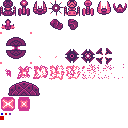
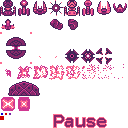
Implement basic pause

Changed region(s): [[0.4062, 0.875, 0.8438, 1.0]]

diff --git a/main.py b/main.py
@@ -14,6 +14,8 @@ from action import ActionStates, handler
 from collision_handler import CollisionHandler
 from hero import reset, save_hero_state
 
+from pause import setup_pause_screen
+
 
 from scene_tools import load_level
 
@@ -111,7 +113,7 @@ def key_back(_, event):
 
 
 @handler.register(pygame.KEYDOWN, "debug")
-def key_back(_, event):
+def key_debug(_, event):
     return event.key == key_map["debug"]
 
 
@@ -144,29 +146,27 @@ def run_level(game_state, screen, level_name):
 
     globs.camera = Vector2(0, 0)
 
-    visible = pygame.sprite.Group()
-    ui = pygame.sprite.Group()
-    ally_bullet = pygame.sprite.Group()
-    enemy_bullet = pygame.sprite.Group()
-    enemy = pygame.sprite.Group()
-    solid = pygame.sprite.Group()
-    mothership = pygame.sprite.Group()
-    hero = pygame.sprite.GroupSingle()
     globs.groups = FlexObj()
-    globs.groups.visible = visible
-    globs.groups.ui = ui
-    globs.groups.ally_bullet = ally_bullet
-    globs.groups.enemy_bullet = enemy_bullet
-    globs.groups.enemy = enemy
-    globs.groups.solid = solid
-    globs.groups.hero = hero
-    globs.groups.mothership = mothership
+    globs.groups.visible = visible = pygame.sprite.Group()
+    globs.groups.ui = ui = pygame.sprite.Group()
+    globs.groups.pause = pause = pygame.sprite.Group()
+
+    globs.groups.ally_bullet = ally_bullet = pygame.sprite.Group()
+    globs.groups.enemy_bullet = enemy_bullet = pygame.sprite.Group()
+    globs.groups.enemy = enemy = pygame.sprite.Group()
+    globs.groups.solid = solid = pygame.sprite.Group()
+    globs.groups.hero = hero = pygame.sprite.GroupSingle()
+    globs.groups.mothership = mothership = pygame.sprite.Group()
 
     globs.spawn_proba = max_spawn_rate
+
+    globs.pause = False
 
     globs.debug = db = Debug()
     load_level(level_name, visible, ally_bullet,
                enemy_bullet, enemy, solid, hero, mothership)
+
+    setup_pause_screen(pause)
 
     ui_master = setup_in_game_ui(ui)
 
@@ -194,7 +194,10 @@ def run_level(game_state, screen, level_name):
         if actions.reload:
             reset()
 
-        if actions.debug:
+        if actions.ui_select:
+            globs.pause = not globs.pause
+
+        if DEBUG and actions.debug:
             globs.life += 1
 
         elif actions.loose:
@@ -210,17 +213,22 @@ def run_level(game_state, screen, level_name):
         for h in collision_handlers:
             h.handle_collisions()
 
-        # update
-        visible.update()
-        globs.spawn_proba = max_spawn_rate / (1 + len(enemy.sprites()))
+        if not globs.pause:
+            # update
+            visible.update()
+            globs.spawn_proba = max_spawn_rate / (1 + len(enemy.sprites()))
 
-        ui_master.update()
+            ui_master.update()
 
         # draw
         screen.fill(BLACK)
 
         visible.draw(screen)
         ui.draw(screen)
+
+        if globs.pause:
+            pause.draw(screen)
+
         globs.debug.debug(f"hero life: {globs.life}")
         globs.debug.debug(f"score: {globs.score}")
 

diff --git a/in_game_ui.py b/in_game_ui.py
@@ -9,12 +9,12 @@ from ui import Ui, Manager, UiMaster
 
 
 def setup_in_game_ui(group):
-    x = W - Z * (4 * 16 + 8)
-    y = Z * 8
+    mm_x = W - Z * (4 * 16 + 8)
+    mm_y = H - Z * (4 * 16 + 8)
 
     managers = [
-        init_minimap(x, y, group),
-        init_life_bar(x, y + 4 * 16 * Z, group),
+        init_minimap(mm_x, mm_y, group),
+        init_life_bar(mm_x, mm_y - Z * 16, group),
     ]
 
     return UiMaster([m for m in managers if m is not None], group)
@@ -112,7 +112,8 @@ class Life(Ui):
         size = self.image.get_size()
         self.i = i
         self.n = n
-        super().__init__(0, y, *size, *args, **kwargs)
+        super().__init__(0, 0, *size, *args, **kwargs)
+        self.rect.centery = y
         self.on_update_pos(None, n)
 
     def on_die(self, _):

diff --git a/pause.py b/pause.py
@@ -1,0 +1,18 @@
+from constants import W, H
+from assets import get_sprite
+
+from ui import Ui
+
+
+def setup_pause_screen(group):
+    PauseScreen(W / 2, H / 2, group)
+
+
+class PauseScreen(Ui):
+    def __init__(self, x, y, *args, **kwargs):
+
+        self.image = get_sprite("ui_pause")
+        size = self.image.get_size()
+
+        super().__init__(0, 0, *size, *args, **kwargs)
+        self.rect.center = (x, y)

diff --git a/assets.py b/assets.py
@@ -26,6 +26,7 @@ def load_assets():
         "mm_mothership": scale_up(_sheet.subsurface(Rect(0, 116, 4, 4))),
         "mm_corner": scale_up(_sheet.subsurface(Rect(16, 112, 16, 16))),
         "mm_side": scale_up(_sheet.subsurface(Rect(32, 112, 16, 16))),
+        "ui_pause": scale_up(_sheet.subsurface(Rect(48, 112, 64, 16))),
     }
 
     animated = {

diff --git a/constants.py b/constants.py
@@ -7,7 +7,7 @@ Z = 4  # Zoom
 FIELD_SIZE_SPRITE = 50
 FIELD_SIZE = FIELD_SIZE_SPRITE * Z * 16
 
-DEADZONE = 0.2  # Joystick trigger
+DEADZONE = 0.1  # Joystick trigger
 
 # Colors (palette pink_ink)
 WHITE = (255, 255, 255)

diff --git a/README.md b/README.md
@@ -23,7 +23,14 @@ The game is written with Python and Pygame.
     - [X] level to level
     - [ ] level to game over
 - [ ] some levels
-- [ ] in game UI
+- [o] in game UI
+    - [X] lives counter
+    - [X] minimap
+    - [X] pause
+    - [ ] exit from pause
+    - [ ] restart level from pause
+    - [ ] score
+    - [ ] score changes
 - [ ] game phases (calm, spy approaching, red alert)
 - [ ] menus
 - [ ] sound FX
